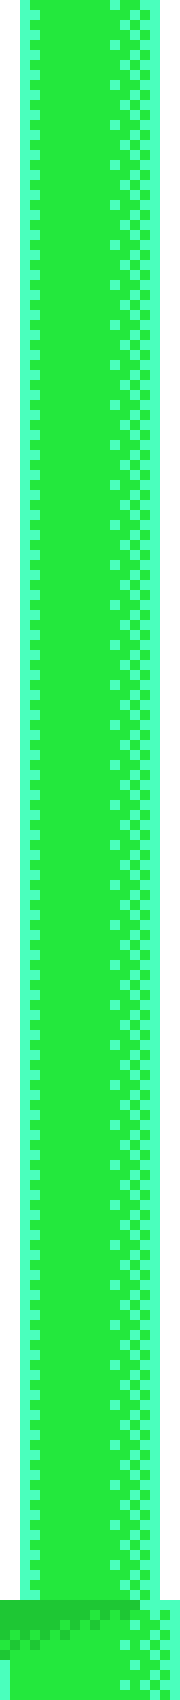
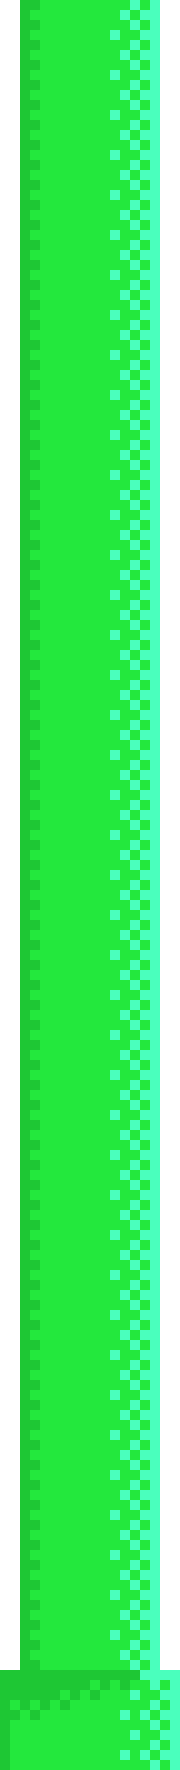
image updates

Changed region(s): [[0.0, 0.0, 0.9444, 1.0]]

diff --git a/sketch.js b/sketch.js
@@ -22,8 +22,8 @@ function updateImages(cosmetic = 'base') {
 
   switch (cosmetic) {
     case 'base':
-      pipeRatio = 180 / 1700;
-      bgRatio = 1;
+      pipeRatio = 180 / 1770;
+      bgRatio = 480 / 396;
       break;
     case 'swamp':
       pipeRatio = 180 / 1760;
@@ -82,25 +82,35 @@ function menu() {
 
 function gameOver() {
   background('lightgreen');
+
+  rectMode(CORNER);
+  fill('darkgreen');
+  let btnw = 200;
+  let btnh = 80;
+  rect(width / 2 - btnw / 2, height / 2, btnw, btnh);
+  rect(width / 2 - btnw / 2, height * 0.7, btnw, btnh);
+
+  textAlign(CENTER, CENTER);
+  textSize(btnh * 0.4);
+  fill(255);
+  text('Play Again', width / 2, height / 2 + btnh / 2);
+  text('Main Menu', width / 2, height * 0.7 + btnh / 2);
   fill(0);
-  text(
-    'OOF Game Over\nClick to Restart\n\nScore: ' + score,
-    width / 2,
-    height / 2
-  );
+  textSize(60);
+  text(score, width / 2, height / 4);
 
   highScore = max(highScore, score);
 }
 
 function mousePressed() {
   if (gameState == 0) {
-    if (mouseY < height * 0.65)
-      gameState = 1;
-    else console.log('open cosmetics')
+    if (mouseY < height * 0.65) gameState = 1;
+    else console.log('open cosmetics');
   }
 
   if (gameState == 3) {
-    gameState = 0;
+    if (mouseY < height * 0.65) gameState = 1;
+    else gameState = 0;
   }
 }
 
@@ -140,7 +150,7 @@ class Game {
       if (pipe.x + pipe.w / 2 < this.bird.x && !pipe.crossed) {
         pipe.crossed = true;
         score++;
-        points += floor(score/10) + 1;
+        points += floor(score / 10) + 1;
       }
 
       if (pipe.move()) this.pipes.length = i;
@@ -155,9 +165,12 @@ class Game {
     fill(255);
     textStyle(BOLD);
     textSize(60);
+    strokeWeight(3);
+    stroke(0);
     text(score, width / 2, 50);
-    textAlign(LEFT, CENTER)
-    textSize(20)
+    noStroke();
+    textAlign(LEFT, CENTER);
+    textSize(20);
     text(points + ' points', 20, 30);
   }
 

diff --git a/index.html b/index.html
@@ -29,8 +29,8 @@
     </head>
     <body>
         <main></main>
-        <!-- <script src="/p5.js/p5.min.js"></script> -->
-        <script src="https://cdnjs.cloudflare.com/ajax/libs/p5.js/1.4.1/p5.min.js"></script>
+        <script src="/p5.js/p5.min.js"></script>
+        <!-- <script src="https://cdnjs.cloudflare.com/ajax/libs/p5.js/1.4.1/p5.min.js"></script> -->
         <!-- <script src="/p5.js/p5.sound.min.js"></script> -->
         <script src="sketch.js"></script>
     </body>
